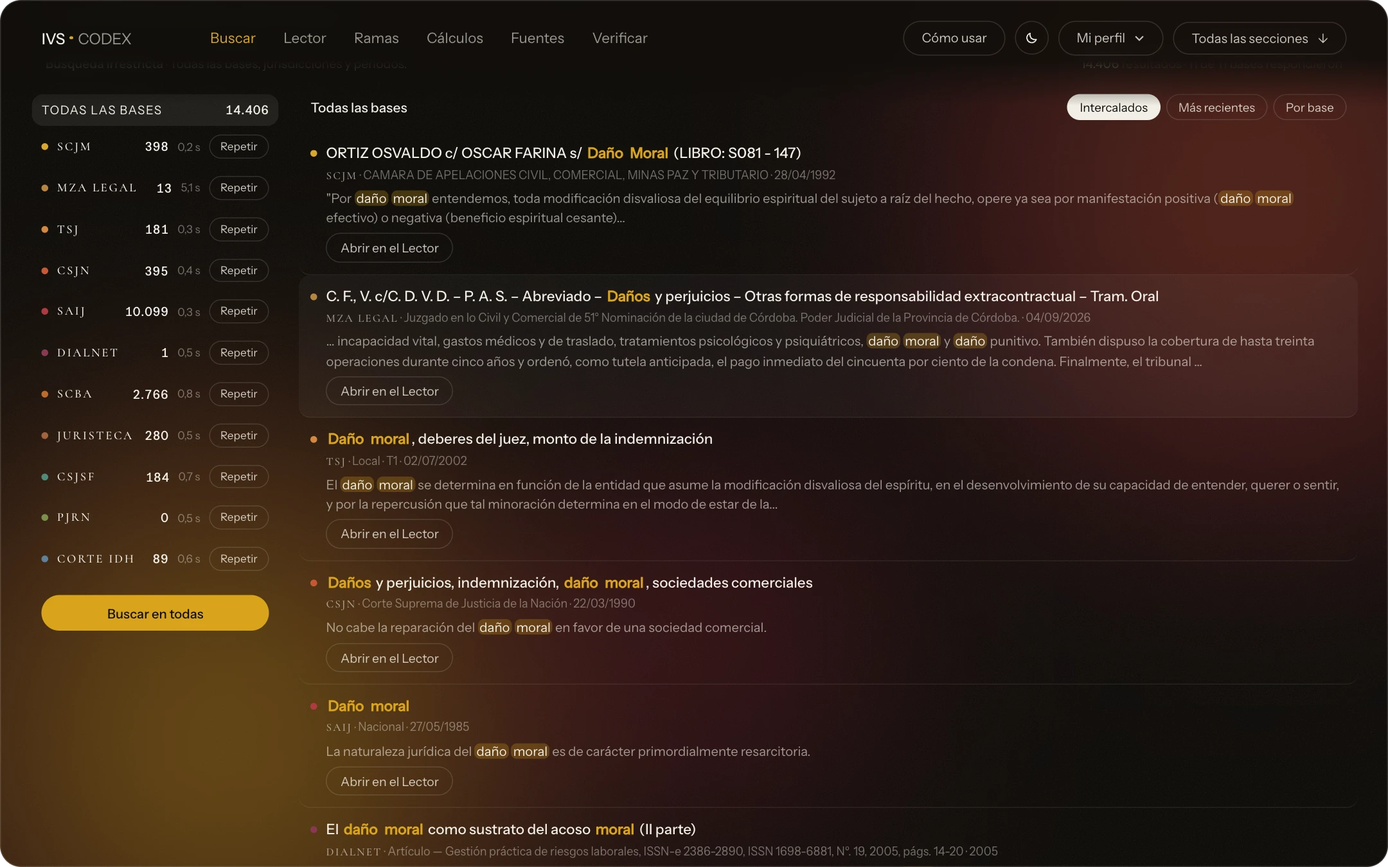
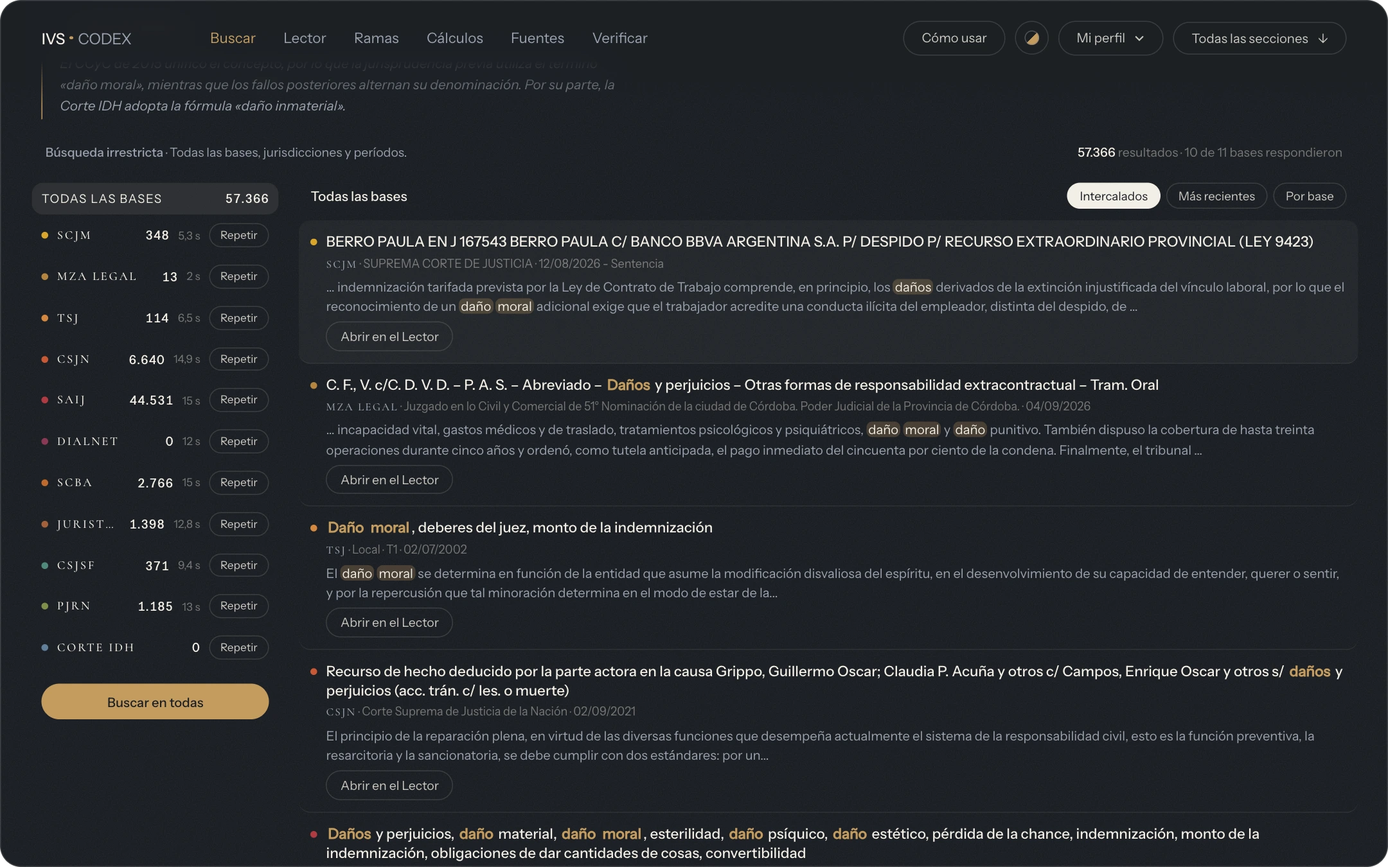
Paletas nuevas, sin degradé de fondo: Pizarra y oro (la de siempre), Azul pizarra y arena, Salvia y crema, Marino y ámbar, Negro (arena apagada de acento, para que no encandile) y Día (el blanco, igual que antes). Reemplazan a Noche, Descanso, Azul, Verde y Bordeaux en el interruptor de colores de l

diff --git a/frontend/index.html b/frontend/index.html
@@ -5,8 +5,8 @@
 <meta name="viewport" content="width=device-width, initial-scale=1, viewport-fit=cover">
 <title>IVS CODEX</title>
 <meta name="description" content="Buscador integrado de repositorios judiciales oficiales y doctrina. Arme la consulta y la plataforma lo lleva a las bases oficiales.">
-<meta name="theme-color" content="#100e0b">
-<script>try{var t=localStorage.getItem("ivs-tema");if(t==="claro"||t==="azul"||t==="verde"||t==="bordo"||t==="descanso")document.documentElement.setAttribute("data-tema",t)}catch(e){}</script>
+<meta name="theme-color" content="#1c1f24">
+<script>try{var t=localStorage.getItem("ivs-tema");if(t==="claro"||t==="arena"||t==="salvia"||t==="marino"||t==="negro")document.documentElement.setAttribute("data-tema",t)}catch(e){}</script>
 <!-- Política de contenido: la página solo puede cargar scripts propios, hablar con su
      propio servidor (API), con el backend publicado, con SAIJ y con la API de
      series de datos.gob.ar, y nunca cargar plugins ni cambiar su base de enlaces. -->
@@ -39,20 +39,20 @@
    cada plantilla.
  * ------------------------------------------------------------------ */
 :root{
-  --bg:#100e0b;
-  --fg:#f1eee6;
+  --bg:#1c1f24;
+  --fg:#f2eee5;
   --fg-82:rgba(var(--tx),.82);
-  --mute:rgba(var(--tx),.6);
+  --mute:#9aa2af;
   --mute-2:rgba(var(--tx),.42);
   --line:rgba(var(--tx),.14);
   --line-2:rgba(var(--tx),.08);
-  --gold:#d9a31b;
+  --gold:#c49c5f;
   --gold-55:rgba(var(--gold-rgb),.55);
-  --gold-rgb:217,163,27;
-  --tx:241,238,230;
-  --bg-rgb:16,14,11;
-  --ov-rgb:8,7,5;
-  --panel:#15120e;
+  --gold-rgb:196,156,95;
+  --tx:242,238,229;
+  --bg-rgb:28,31,36;
+  --ov-rgb:14,15,18;
+  --panel:#262b33;
   --verde:#8fbf9a;
   --rojo:#dba196;
 
@@ -68,7 +68,7 @@
   --oro:var(--gold);
   --acequia:var(--verde);
   /* crema al 58% sobre el negro, opaco: 5:1 de contraste en letra chica */
-  --humo:#94918a;
+  --humo:#9aa2af;
   --linea:var(--line);
   --linea2:var(--line-2);
   /* Un tono por buscador, la misma rampa cálida de antes: ahora solo
@@ -107,11 +107,11 @@ html[data-tema="claro"]{
   --tx:31,27,20;--bg-rgb:245,241,231;--ov-rgb:40,34,20;--panel:#fbf8f1;
   color-scheme:light
 }
-/* Otras paletas oscuras: el mismo diseño, solo cambian los colores. «Noche» (sin atributo) es la de siempre. */
-html[data-tema="azul"]{--bg:#161c27;--fg:#ece8dc;--gold:#d4a94a;--gold-rgb:212,169,74;--tx:236,232,220;--bg-rgb:22,28,39;--ov-rgb:11,14,20;--panel:#1b2230;--humo:#929290}
-html[data-tema="verde"]{--bg:#14211d;--fg:#eee9db;--gold:#cfae6a;--gold-rgb:207,174,106;--tx:238,233,219;--bg-rgb:20,33,29;--ov-rgb:10,17,15;--panel:#192a25;--humo:#92958b}
-html[data-tema="descanso"]{--bg:#2e231b;--fg:#e8d9bd;--gold:#d4a04a;--gold-rgb:212,160,74;--tx:232,217,189;--bg-rgb:46,35,27;--ov-rgb:23,18,14;--panel:#35291f;--humo:#9a8d79}
-html[data-tema="bordo"]{--bg:#34101b;--fg:#f3e8dd;--gold:#dcb26c;--gold-rgb:220,178,108;--tx:243,232,221;--bg-rgb:52,16,27;--ov-rgb:26,8,14;--panel:#3c1621;--humo:#a38d8c}
+/* Paletas oscuras: el mismo diseño, solo cambian los colores. «Pizarra y oro» (sin atributo) es la de siempre; el resto lleva data-tema. Sin degradé de fondo. */
+html[data-tema="arena"]{--bg:#1e252d;--fg:#e6e9eb;--mute:rgba(230,233,235,.62);--gold:#bd995c;--gold-rgb:189,153,92;--tx:230,233,235;--bg-rgb:30,37,45;--ov-rgb:15,18,22;--panel:#29313b;--humo:#8c9196}
+html[data-tema="salvia"]{--bg:#181d1b;--fg:#e2e0cc;--mute:rgba(226,224,204,.62);--gold:#a3b3a9;--gold-rgb:163,179,169;--tx:226,224,204;--bg-rgb:24,29,27;--ov-rgb:12,14,14;--panel:#212825;--humo:#87887c}
+html[data-tema="marino"]{--bg:#1a2030;--fg:#f1efea;--mute:rgba(241,239,234,.62);--gold:#f0b430;--gold-rgb:240,180,48;--tx:241,239,234;--bg-rgb:26,32,48;--ov-rgb:13,16,24;--panel:#232a3d;--humo:#909296}
+html[data-tema="negro"]{--bg:#0b0b0c;--fg:#e4e4e6;--mute:rgba(228,228,230,.62);--gold:#b8a986;--gold-rgb:184,169,134;--tx:228,228,230;--bg-rgb:11,11,12;--ov-rgb:6,6,6;--panel:#151517;--humo:#828284}
 html[data-tema="claro"] .grano{opacity:.05;mix-blend-mode:multiply}
 html[data-tema="claro"] .tour-card,html[data-tema="claro"] .compartir-menu{background:var(--panel)}
 html[data-tema="claro"] *::-webkit-scrollbar-thumb{background:rgba(31,27,20,.22)}
@@ -185,6 +185,7 @@ strong,b{font-weight:500}
 @keyframes luzA{to{transform:translate3d(5vw,-4vh,0) scale(1.1)}}
 @media (prefers-reduced-motion:reduce){.luces i{animation:none}}
 html[data-tema="claro"] .luces{opacity:.5}
+html:not([data-tema="claro"]) .luces{display:none}   /* las luces desenfocadas sólo quedan en el tema claro */
 
 /* la marca escrita, con el punto redondo del logo y no el "·" de la fuente */
 .marca{font-family:"Cinzel","Trajan Pro",var(--caps);font-weight:500;white-space:nowrap}
@@ -1600,14 +1601,14 @@ mark{border-radius:6px}
 <section class="entrada" id="entrada" aria-label="Portada de IVS CODEX">
   <!-- La portada es una página aparte (portada/index.html) dentro de un marco: así sus estilos no se mezclan con los de la aplicación.
        Sus botones le piden a esta página que abra la sección elegida (ver el mensaje «ivs: abrir» más abajo). -->
-  <iframe id="portada-marco" class="portada-marco" src="./portada/index.html?v=20261030b" title="Portada de IVS CODEX" loading="eager"></iframe>
+  <iframe id="portada-marco" class="portada-marco" src="./portada/index.html?v=20261030d" title="Portada de IVS CODEX" loading="eager"></iframe>
 </section>
 
 <header class="top">
   <div class="nav-wrap">
     <button type="button" class="marca-app" data-portada aria-label="IVS CODEX, volver a la portada"><span class="marca2"><b>IVS</b><i class="m-pt"></i><span>CODEX</span></span></button>
     <nav class="nav" id="nav" aria-label="Secciones principales"></nav>
-    <div class="nav-fin"><button type="button" class="lx-chip" data-act="abrir-lexia" aria-label="Preguntarle a Lexia"><i></i>Lexia</button><button type="button" class="btn sec btn-perfil" id="como-usar" data-tour>Cómo usar</button><span class="tema-seg" role="group" aria-label="Colores del sitio"><button type="button" class="tema-btn" aria-haspopup="menu" aria-expanded="false" aria-label="Colores del sitio" title="Colores"></button><span class="tema-pop" role="menu"><button type="button" class="tema-op" style="--i:0" role="menuitemradio" data-tema-op="oscuro" aria-label="Noche" aria-pressed="false"><svg viewBox="0 0 20 20" width="15" height="15" aria-hidden="true"><path d="M16.2 12.3A6.7 6.7 0 0 1 7.7 3.8a6.7 6.7 0 1 0 8.5 8.5Z" fill="none" stroke="currentColor" stroke-width="1.6" stroke-linejoin="round"/></svg><em>Noche</em></button><button type="button" class="tema-op" style="--i:1" role="menuitemradio" data-tema-op="claro" aria-label="Día" aria-pressed="false"><svg viewBox="0 0 20 20" width="15" height="15" aria-hidden="true"><circle cx="10" cy="10" r="3.6" fill="none" stroke="currentColor" stroke-width="1.6"/><path d="M10 2.2v2M10 15.8v2M2.2 10h2M15.8 10h2M4.5 4.5l1.4 1.4M14.1 14.1l1.4 1.4M4.5 15.5l1.4-1.4M14.1 5.9l1.4-1.4" stroke="currentColor" stroke-width="1.6" stroke-linecap="round"/></svg><em>Día</em></button><button type="button" class="tema-op" style="--i:2" role="menuitemradio" data-tema-op="descanso" aria-label="Descanso" aria-pressed="false"><i class="sw" style="--a:#2e231b;--b:#d4a04a"></i><em>Descanso</em></button><button type="button" class="tema-op" style="--i:3" role="menuitemradio" data-tema-op="azul" aria-label="Azul" aria-pressed="false"><i class="sw" style="--a:#161c27;--b:#d4a94a"></i><em>Azul</em></button><button type="button" class="tema-op" style="--i:4" role="menuitemradio" data-tema-op="verde" aria-label="Verde" aria-pressed="false"><i class="sw" style="--a:#14211d;--b:#cfae6a"></i><em>Verde</em></button><button type="button" class="tema-op" style="--i:5" role="menuitemradio" data-tema-op="bordo" aria-label="Bordeaux" aria-pressed="false"><i class="sw" style="--a:#34101b;--b:#dcb26c"></i><em>Bordeaux</em></button></span></span><span class="perfil-wrap"><button type="button" class="btn sec btn-perfil" id="mi-perfil" data-act="tog-perfil" aria-haspopup="menu" aria-expanded="false"><span>Mi perfil</span><svg class="fsb-flecha" viewBox="0 0 12 12" width="12" height="12" aria-hidden="true"><path d="M2.5 4.5 6 8l3.5-3.5" fill="none" stroke="currentColor" stroke-width="1.6" stroke-linecap="round" stroke-linejoin="round"/></svg></button><div class="perfil-menu" id="perfil-menu" role="menu" hidden></div></span><button type="button" class="btn sec btn-menu" id="abrir-menu" aria-expanded="false" aria-controls="menu"><span class="txt">Todas las secciones</span> <span class="fl" aria-hidden="true">↓</span></button></div>
+    <div class="nav-fin"><button type="button" class="lx-chip" data-act="abrir-lexia" aria-label="Preguntarle a Lexia"><i></i>Lexia</button><button type="button" class="btn sec btn-perfil" id="como-usar" data-tour>Cómo usar</button><span class="tema-seg" role="group" aria-label="Colores del sitio"><button type="button" class="tema-btn" aria-haspopup="menu" aria-expanded="false" aria-label="Colores del sitio" title="Colores"></button><span class="tema-pop" role="menu"><button type="button" class="tema-op" style="--i:0" role="menuitemradio" data-tema-op="oscuro" aria-label="Pizarra y oro" aria-pressed="false"><i class="sw" style="--a:#1c1f24;--b:#c49c5f"></i><em>Pizarra y oro</em></button><button type="button" class="tema-op" style="--i:1" role="menuitemradio" data-tema-op="arena" aria-label="Azul pizarra y arena" aria-pressed="false"><i class="sw" style="--a:#1e252d;--b:#bd995c"></i><em>Azul pizarra y arena</em></button><button type="button" class="tema-op" style="--i:2" role="menuitemradio" data-tema-op="salvia" aria-label="Salvia y crema" aria-pressed="false"><i class="sw" style="--a:#181d1b;--b:#a3b3a9"></i><em>Salvia y crema</em></button><button type="button" class="tema-op" style="--i:3" role="menuitemradio" data-tema-op="marino" aria-label="Marino y ámbar" aria-pressed="false"><i class="sw" style="--a:#1a2030;--b:#f0b430"></i><em>Marino y ámbar</em></button><button type="button" class="tema-op" style="--i:4" role="menuitemradio" data-tema-op="negro" aria-label="Negro" aria-pressed="false"><i class="sw" style="--a:#0b0b0c;--b:#b8a986"></i><em>Negro</em></button><button type="button" class="tema-op" style="--i:5" role="menuitemradio" data-tema-op="claro" aria-label="Día" aria-pressed="false"><svg viewBox="0 0 20 20" width="15" height="15" aria-hidden="true"><circle cx="10" cy="10" r="3.6" fill="none" stroke="currentColor" stroke-width="1.6"/><path d="M10 2.2v2M10 15.8v2M2.2 10h2M15.8 10h2M4.5 4.5l1.4 1.4M14.1 14.1l1.4 1.4M4.5 15.5l1.4-1.4M14.1 5.9l1.4-1.4" stroke="currentColor" stroke-width="1.6" stroke-linecap="round"/></svg><em>Día</em></button></span></span><span class="perfil-wrap"><button type="button" class="btn sec btn-perfil" id="mi-perfil" data-act="tog-perfil" aria-haspopup="menu" aria-expanded="false"><span>Mi perfil</span><svg class="fsb-flecha" viewBox="0 0 12 12" width="12" height="12" aria-hidden="true"><path d="M2.5 4.5 6 8l3.5-3.5" fill="none" stroke="currentColor" stroke-width="1.6" stroke-linecap="round" stroke-linejoin="round"/></svg></button><div class="perfil-menu" id="perfil-menu" role="menu" hidden></div></span><button type="button" class="btn sec btn-menu" id="abrir-menu" aria-expanded="false" aria-controls="menu"><span class="txt">Todas las secciones</span> <span class="fl" aria-hidden="true">↓</span></button></div>
   </div>
 </header>
 
@@ -10352,7 +10353,7 @@ window.IVS={
     document.addEventListener("click",function(e){ if(pop&&pop.classList.contains("abre")&&!pop.contains(e.target)) abre(false); });
     document.addEventListener("keydown",function(e){ if(e.key==="Escape"&&pop&&pop.classList.contains("abre")){ abre(false); btn.focus(); } });
   }
-  var TEMAS={claro:"#f5f1e7",azul:"#161c27",verde:"#14211d",bordo:"#34101b",descanso:"#2e231b"};
+  var TEMAS={claro:"#f5f1e7",arena:"#1e252d",salvia:"#181d1b",marino:"#1a2030",negro:"#0b0b0c"};
   function pon(t){
     if(!TEMAS[t]) t="oscuro";
     var r=document.documentElement;
@@ -10360,7 +10361,7 @@ window.IVS={
     ops.forEach(function(o){ o.setAttribute("aria-pressed",String(o.getAttribute("data-tema-op")===t)); });
     icono(t);
     try{ localStorage.setItem("ivs-tema",t); }catch(e){}
-    var m=document.querySelector('meta[name="theme-color"]'); if(m) m.setAttribute("content",TEMAS[t]||"#100e0b");
+    var m=document.querySelector('meta[name="theme-color"]'); if(m) m.setAttribute("content",TEMAS[t]||"#1c1f24");
   }
   pon(document.documentElement.getAttribute("data-tema"));
   ops.forEach(function(o){ o.addEventListener("click",function(){ var t=o.getAttribute("data-tema-op"); pon(t); portada(t); abre(false); }); });

diff --git a/frontend/opciones/paletas/datos.js b/frontend/opciones/paletas/datos.js
@@ -1,0 +1,58 @@
+/* Paletas completas de IVS CODEX, sin degradé: un negro teñido de base, un escalón más claro para los paneles,
+   el color del texto (que también tiñe los títulos) y un acento. Se aplican sobre la portada y la aplicación reales
+   sin tocar sus archivos: css() arma la hoja que se inyecta.
+   Las cálidas van hacia el vino, el rojo y el coral: sin marrón ni amarillo. */
+window.IVSPaletas = (function () {
+  var PAL = [
+    { id: 'actual', grupo: 'actual', nombre: 'Actual', bg: '#100e0b', panel: '#15120e', fg: '#f1eee6', acento: '#d9a31b', flat: false,
+      nota: 'Para comparar: negro cálido con degradé terracota, carmesí y oro.' },
+    { id: 'pizarra', grupo: 'tuyas', nombre: 'Pizarra y oro', bg: '#1c1f24', panel: '#262b33', fg: '#f2eee5', mute: '#9aa2af', acento: '#c49c5f', flat: true,
+      nota: 'De tu segunda imagen: carbón azulado, gris pizarra, crema y oro apagado. El oro queda sobre un fondo frío, sin marrón alrededor.' },
+    { id: 'arena', grupo: 'tuyas', nombre: 'Azul pizarra y arena', bg: '#1e252d', panel: '#29313b', fg: '#e6e9eb', acento: '#bd995c', flat: true,
+      nota: 'De tu primera imagen: azul pizarra oscuro, texto gris azulado claro y el oro arena como acento. Más azul y más suave que la anterior.' },
+    { id: 'marino-oro', grupo: 'tuyas', nombre: 'Marino y oro', bg: '#0c1117', panel: '#132230', fg: '#dadada', mute: '#b9b7b8', acento: '#bf8f1f', flat: true,
+      nota: 'De tu tercera imagen: negro marino, grises neutros y un oro más profundo. La más oscura y la más seria.' },
+    { id: 'ladrillo', grupo: 'tuyas', nombre: 'Ladrillo y rosado', bg: '#1f1311', panel: '#2b1b18', fg: '#f1e6e1', acento: '#d08b7a', flat: true,
+      nota: 'De la primera señalada: el rosado beige para el texto y el ladrillo aclarado para el acento, sobre un fondo de ladrillo muy oscuro. La más cálida de las seis.' },
+    { id: 'salvia', grupo: 'tuyas', nombre: 'Salvia y crema', bg: '#181d1b', panel: '#212825', fg: '#e2e0cc', acento: '#a3b3a9', flat: true,
+      nota: 'De la segunda señalada: crema verdosa para el texto y gris salvia como acento, sobre un negro verdoso. Calma y poco contraste entre el texto y el acento.' },
+    { id: 'marino-ambar', grupo: 'tuyas', nombre: 'Marino y ámbar', bg: '#1a2030', panel: '#232a3d', fg: '#f1efea', acento: '#f0b430', flat: true,
+      nota: 'De la tercera señalada: azul marino con ámbar vivo. El acento más fuerte de todos; con el marino se separa del fondo.' },
+    { id: 'tinta', grupo: 'fria', nombre: 'Tinta', bg: '#0b0e15', panel: '#121722', fg: '#e8ecf4', acento: '#9bb4f2', flat: true,
+      nota: 'Negro azulado, texto blanco frío y un azul pervinca apagado de acento (menos saturado, para que no encandile sobre el negro).' },
+    { id: 'abismo', grupo: 'fria', nombre: 'Abismo', bg: '#0a1112', panel: '#101a1b', fg: '#e6efee', acento: '#86cfc4', flat: true,
+      nota: 'Negro verdoso azulado con acento agua. Más calmo que el azul.' },
+    { id: 'grafito', grupo: 'fria', nombre: 'Grafito', bg: '#0d0e10', panel: '#141518', fg: '#eceef1', acento: '#c3c9d4', flat: true,
+      nota: 'Casi sin tinte, con acento plata. El más sobrio y el que menos compite con el contenido.' },
+    { id: 'vino', grupo: 'calida', nombre: 'Vino', bg: '#1a0a11', panel: '#251320', fg: '#f4eaec', acento: '#e9a2b0', flat: true,
+      nota: 'Negro de fondo de vino (rojo, no marrón), texto rosado muy claro y acento rosa empolvado.' },
+    { id: 'coral', grupo: 'calida', nombre: 'Coral', bg: '#0f0d0d', panel: '#171414', fg: '#f3eeec', acento: '#f2806c', flat: true,
+      nota: 'Carbón con un velo rojizo y acento coral: un solo toque cálido y vivo sobre un fondo casi neutro.' },
+    { id: 'durazno', grupo: 'calida', nombre: 'Burdeos y durazno', bg: '#150a0e', panel: '#1e1116', fg: '#f5ece9', acento: '#f1b3a0', flat: true,
+      nota: 'Negro bordó con acento durazno: más suave y luminoso que el coral.' }
+  ];
+
+  function rgbDe(h) { var n = parseInt(h.slice(1), 16); return [(n >> 16) & 255, (n >> 8) & 255, n & 255]; }
+  function lista(h) { return rgbDe(h).join(','); }
+  function mezcla(a, b, t) { return a.map(function (v, i) { return Math.round(v * t + b[i] * (1 - t)); }); }
+  function hex(c) { return '#' + c.map(function (v) { return ('0' + v.toString(16)).slice(-2); }).join(''); }
+  function lum(c) { var f = function (v) { v /= 255; return v <= 0.03928 ? v / 12.92 : Math.pow((v + 0.055) / 1.055, 2.4); }; return 0.2126 * f(c[0]) + 0.7152 * f(c[1]) + 0.0722 * f(c[2]); }
+  function contraste(h1, h2) { var a = lum(rgbDe(h1)), b = lum(rgbDe(h2)); if (a < b) { var t = a; a = b; b = t; } return (a + 0.05) / (b + 0.05); }
+
+  /* La hoja de estilo de una paleta. Pisa las mismas variables que usan las paletas del interruptor del sitio. */
+  function css(id) {
+    var p = PAL.filter(function (x) { return x.id === id; })[0] || PAL[0];
+    if (p.id === 'actual') return '';
+    var B = rgbDe(p.bg), F = rgbDe(p.fg);
+    var tx = F.join(','), humo = hex(mezcla(F, B, 0.55)), ov = B.map(function (v) { return Math.round(v * 0.5); }).join(',');
+    return ':root:root,html[data-tema]{' +
+      '--bg:' + p.bg + ';--bg-rgb:' + B.join(',') + ';--ov-rgb:' + ov + ';--panel:' + p.panel + ';' +
+      '--fg:' + p.fg + ';--tx:' + tx + ';--humo:' + humo + ';' +
+      '--mute:' + (p.mute || 'rgba(' + tx + ',.62)') + ';--dim:rgba(' + tx + ',.36);--line:rgba(' + tx + ',.15);' +
+      '--gold:' + p.acento + ';--gold-rgb:' + lista(p.acento) + '}' +
+      'html{background:' + p.bg + '!important}body{background:transparent!important}' +
+      '.luces{display:none!important}';
+  }
+
+  return { PAL: PAL, css: css, contraste: contraste };
+})();

diff --git a/frontend/opciones/paletas/index.html b/frontend/opciones/paletas/index.html
@@ -1,0 +1,98 @@
+<!doctype html>
+<html lang="es-AR">
+<head>
+<meta charset="utf-8">
+<meta name="viewport" content="width=device-width, initial-scale=1">
+<title>IVS CODEX · Paletas sin degradé</title>
+<link rel="stylesheet" href="https://fonts.googleapis.com/css2?family=Instrument+Sans:wght@400;500&display=swap">
+<style>
+:root{--bg:#0b0a09;--fg:#f1eee6;--mute:rgba(241,238,230,.62);--dim:rgba(241,238,230,.38);--line:rgba(241,238,230,.18);--gold:#d9a31b;--sans:"Instrument Sans",system-ui,sans-serif}
+*{box-sizing:border-box}
+html,body{height:100%}
+body{margin:0;display:flex;flex-direction:column;background:#0b0a09;color:var(--fg);font:400 15px/1.5 var(--sans);-webkit-font-smoothing:antialiased}
+.barra{flex:none;padding:18px clamp(14px,3vw,36px) 14px;display:grid;gap:12px}
+.fila{display:flex;flex-wrap:wrap;align-items:center;gap:8px}
+.t{margin:0 14px 0 0;font:500 15px/1 var(--sans);letter-spacing:-.01em}
+.t i{display:inline-block;width:.32em;height:.32em;margin:0 .35em .12em;border-radius:50%;background:var(--gold)}
+.p{display:inline-flex;align-items:center;gap:9px;padding:9px 16px 8px;border:1px solid var(--line);border-radius:999px;background:none;color:var(--mute);font:400 14px/1 var(--sans);cursor:pointer;transition:border-color .25s,color .25s,background .25s}
+.p:hover{border-color:var(--fg);color:var(--fg)}
+.p[aria-pressed="true"]{background:var(--fg);border-color:var(--fg);color:#14110a}
+.p i{width:9px;height:9px;border-radius:50%;background:var(--c)}
+.rot{font-size:12px;letter-spacing:.14em;text-transform:uppercase;color:var(--dim)}
+.sep{width:1px;height:22px;background:var(--line);margin:0 6px}
+.nota{margin:0;color:var(--mute);max-width:92ch}
+.nota b{color:var(--fg);font-weight:500}
+.fich{display:flex;flex-wrap:wrap;align-items:center;gap:6px 16px;margin:0;font-size:13px;color:var(--dim)}
+.fich span{display:inline-flex;align-items:center;gap:7px}
+.fich i{width:14px;height:14px;border-radius:50%;border:1px solid rgba(241,238,230,.28);background:var(--c)}
+.vista{flex:1;min-height:0;padding:0 clamp(14px,3vw,36px) clamp(14px,3vw,36px)}
+iframe{display:block;width:100%;height:100%;border:1px solid var(--line);border-radius:26px;background:#0b0a09}
+</style>
+</head>
+<body>
+<div class="barra">
+  <div class="fila" id="op"><span class="t">IVS<i></i>CODEX · Paletas</span></div>
+  <div class="fila" id="vs">
+    <button class="p" data-v="portada" aria-pressed="true">Portada</button>
+    <button class="p" data-v="app" aria-pressed="false">Aplicación</button>
+  </div>
+  <p class="nota" id="nota"></p>
+  <p class="fich" id="fich"></p>
+</div>
+<div class="vista"><iframe id="marco" title="Vista previa"></iframe></div>
+<script src="datos.js"></script>
+<script>
+(function () {
+  var D = window.IVSPaletas, marco = document.getElementById('marco');
+  var sel = 'actual', vista = 'portada';
+  var cont = document.getElementById('op');
+  var grupos = { actual: '', tuyas: 'De tus imágenes', fria: 'Frías', calida: 'Cálidas' }, ultimo = null;
+  D.PAL.forEach(function (o) {
+    if (o.grupo !== ultimo) {
+      var s = document.createElement('span'); s.className = 'sep'; cont.appendChild(s);
+      if (grupos[o.grupo]) { var r = document.createElement('span'); r.className = 'rot'; r.textContent = grupos[o.grupo]; cont.appendChild(r); }
+      ultimo = o.grupo;
+    }
+    var b = document.createElement('button');
+    b.className = 'p'; b.dataset.id = o.id; b.style.setProperty('--c', o.acento);
+    b.innerHTML = '<i></i>' + o.nombre;
+    b.addEventListener('click', function () { sel = o.id; aplicar(); });
+    cont.appendChild(b);
+  });
+  [].forEach.call(document.querySelectorAll('#vs > .p'), function (b) {
+    b.addEventListener('click', function () { vista = b.dataset.v; cargar(); });
+  });
+
+  function aplicar() {
+    [].forEach.call(document.querySelectorAll('#op .p'), function (b) { b.setAttribute('aria-pressed', String(b.dataset.id === sel)); });
+    [].forEach.call(document.querySelectorAll('#vs > .p'), function (b) { b.setAttribute('aria-pressed', String(b.dataset.v === vista)); });
+    var o = D.PAL.filter(function (x) { return x.id === sel; })[0];
+    document.getElementById('nota').innerHTML = '<b>' + o.nombre + '.</b> ' + o.nota;
+    var c = function (h1, h2) { return D.contraste(h1, h2).toFixed(1).replace('.', ',') + ' a 1'; };
+    document.getElementById('fich').innerHTML =
+      '<span style="--c:' + o.bg + '"><i></i>Fondo ' + o.bg + '</span>' +
+      '<span style="--c:' + o.panel + '"><i></i>Panel ' + o.panel + '</span>' +
+      '<span style="--c:' + o.fg + '"><i></i>Texto y títulos ' + o.fg + ' · contraste ' + c(o.fg, o.bg) + '</span>' +
+      '<span style="--c:' + o.acento + '"><i></i>Acento ' + o.acento + ' · contraste ' + c(o.acento, o.bg) + '</span>';
+    try {
+      var doc = marco.contentDocument; if (!doc || !doc.head) return;
+      var st = doc.getElementById('paleta-prueba');
+      if (!st) { st = doc.createElement('style'); st.id = 'paleta-prueba'; doc.head.appendChild(st); }
+      st.textContent = D.css(sel);
+    } catch (e) {}
+  }
+  function cargar() {
+    marco.onload = function () {
+      aplicar();
+      if (vista === 'app') {
+        setTimeout(function () { try { marco.contentWindow.postMessage({ ivs: 'abrir', tab: 'calculos' }, location.origin); } catch (e) {} }, 900);
+      }
+    };
+    marco.src = vista === 'app' ? '../../index.html' : '../../portada/index.html';
+    aplicar();
+  }
+  cargar();
+})();
+</script>
+</body>
+</html>

diff --git a/frontend/portada/shared6.js b/frontend/portada/shared6.js
@@ -2,7 +2,7 @@
 (function(){
   var S=IVS4;
   var BASES=[["SCJM","--c-mza"],["MZA LEGAL","--c-mzl"],["TSJ","--c-caba"],["SCBA","--c-scba"],["CSJN","--c-csjn"],["SAIJ","--c-saij"],["DIALNET","--c-dial"],["CORTE IDH","--c-idh"]];
-  var CAB='<header class="cab"><span class="lock"><span class="marca2"><b>IVS</b><i class="m-pt"></i><span>CODEX</span></span></span><div class="acts"><span class="tema-seg" role="group" aria-label="Colores del sitio"><button type="button" class="tema-btn" aria-haspopup="menu" aria-expanded="false" aria-label="Colores del sitio" title="Colores"></button><span class="tema-pop" role="menu"><button type="button" class="tema-op" style="--i:0" role="menuitemradio" data-tema-op="oscuro" aria-label="Noche" aria-pressed="false"><svg viewBox="0 0 20 20" width="15" height="15" aria-hidden="true"><path d="M16.2 12.3A6.7 6.7 0 0 1 7.7 3.8a6.7 6.7 0 1 0 8.5 8.5Z" fill="none" stroke="currentColor" stroke-width="1.6" stroke-linejoin="round"/></svg><em>Noche</em></button><button type="button" class="tema-op" style="--i:1" role="menuitemradio" data-tema-op="claro" aria-label="Día" aria-pressed="false"><svg viewBox="0 0 20 20" width="15" height="15" aria-hidden="true"><circle cx="10" cy="10" r="3.6" fill="none" stroke="currentColor" stroke-width="1.6"/><path d="M10 2.2v2M10 15.8v2M2.2 10h2M15.8 10h2M4.5 4.5l1.4 1.4M14.1 14.1l1.4 1.4M4.5 15.5l1.4-1.4M14.1 5.9l1.4-1.4" stroke="currentColor" stroke-width="1.6" stroke-linecap="round"/></svg><em>Día</em></button><button type="button" class="tema-op" style="--i:2" role="menuitemradio" data-tema-op="descanso" aria-label="Descanso" aria-pressed="false"><i class="sw" style="--a:#2e231b;--b:#d4a04a"></i><em>Descanso</em></button><button type="button" class="tema-op" style="--i:3" role="menuitemradio" data-tema-op="azul" aria-label="Azul" aria-pressed="false"><i class="sw" style="--a:#161c27;--b:#d4a94a"></i><em>Azul</em></button><button type="button" class="tema-op" style="--i:4" role="menuitemradio" data-tema-op="verde" aria-label="Verde" aria-pressed="false"><i class="sw" style="--a:#14211d;--b:#cfae6a"></i><em>Verde</em></button><button type="button" class="tema-op" style="--i:5" role="menuitemradio" data-tema-op="bordo" aria-label="Bordeaux" aria-pressed="false"><i class="sw" style="--a:#34101b;--b:#dcb26c"></i><em>Bordeaux</em></button></span></span><a class="btn sec" href="#" data-tab="fuentes">Ver el catálogo de fuentes</a><a class="btn" href="#" data-tab="buscar">Iniciar la consulta</a></div></header>';
+  var CAB='<header class="cab"><span class="lock"><span class="marca2"><b>IVS</b><i class="m-pt"></i><span>CODEX</span></span></span><div class="acts"><span class="tema-seg" role="group" aria-label="Colores del sitio"><button type="button" class="tema-btn" aria-haspopup="menu" aria-expanded="false" aria-label="Colores del sitio" title="Colores"></button><span class="tema-pop" role="menu"><button type="button" class="tema-op" style="--i:0" role="menuitemradio" data-tema-op="oscuro" aria-label="Pizarra y oro" aria-pressed="false"><i class="sw" style="--a:#1c1f24;--b:#c49c5f"></i><em>Pizarra y oro</em></button><button type="button" class="tema-op" style="--i:1" role="menuitemradio" data-tema-op="arena" aria-label="Azul pizarra y arena" aria-pressed="false"><i class="sw" style="--a:#1e252d;--b:#bd995c"></i><em>Azul pizarra y arena</em></button><button type="button" class="tema-op" style="--i:2" role="menuitemradio" data-tema-op="salvia" aria-label="Salvia y crema" aria-pressed="false"><i class="sw" style="--a:#181d1b;--b:#a3b3a9"></i><em>Salvia y crema</em></button><button type="button" class="tema-op" style="--i:3" role="menuitemradio" data-tema-op="marino" aria-label="Marino y ámbar" aria-pressed="false"><i class="sw" style="--a:#1a2030;--b:#f0b430"></i><em>Marino y ámbar</em></button><button type="button" class="tema-op" style="--i:4" role="menuitemradio" data-tema-op="negro" aria-label="Negro" aria-pressed="false"><i class="sw" style="--a:#0b0b0c;--b:#b8a986"></i><em>Negro</em></button><button type="button" class="tema-op" style="--i:5" role="menuitemradio" data-tema-op="claro" aria-label="Día" aria-pressed="false"><svg viewBox="0 0 20 20" width="15" height="15" aria-hidden="true"><circle cx="10" cy="10" r="3.6" fill="none" stroke="currentColor" stroke-width="1.6"/><path d="M10 2.2v2M10 15.8v2M2.2 10h2M15.8 10h2M4.5 4.5l1.4 1.4M14.1 14.1l1.4 1.4M4.5 15.5l1.4-1.4M14.1 5.9l1.4-1.4" stroke="currentColor" stroke-width="1.6" stroke-linecap="round"/></svg><em>Día</em></button></span></span><a class="btn sec" href="#" data-tab="fuentes">Ver el catálogo de fuentes</a><a class="btn" href="#" data-tab="buscar">Iniciar la consulta</a></div></header>';
   window.IVS6={
     BASES:BASES,
     /* monta la cabecera, el héroe del prisma y devuelve el contenedor <main> donde van las secciones */
@@ -38,7 +38,7 @@
         document.addEventListener("click",function(e){ if(pop&&pop.classList.contains("abre")&&!pop.contains(e.target)) abre(false); });
         document.addEventListener("keydown",function(e){ if(e.key==="Escape"&&pop&&pop.classList.contains("abre")){ abre(false); btn.focus(); } });
       }
-      var TEMAS={claro:1,azul:1,verde:1,bordo:1,descanso:1};
+      var TEMAS={claro:1,arena:1,salvia:1,marino:1,negro:1};
       function pon(t){
         if(!TEMAS[t]) t="oscuro";
         var r=document.documentElement;

diff --git a/frontend/portada/index.html b/frontend/portada/index.html
@@ -1,10 +1,10 @@
-<!doctype html><html lang="es-AR"><head><meta charset="utf-8"><meta name="viewport" content="width=device-width,initial-scale=1"><meta name="theme-color" content="#100e0b">
+<!doctype html><html lang="es-AR"><head><meta charset="utf-8"><meta name="viewport" content="width=device-width,initial-scale=1"><meta name="theme-color" content="#1c1f24">
 <meta http-equiv="Content-Security-Policy" content="default-src 'self'; script-src 'self' 'unsafe-inline'; style-src 'self' 'unsafe-inline' https://fonts.googleapis.com; font-src 'self' https://fonts.gstatic.com; img-src 'self' data: blob:; connect-src 'self'; frame-src 'none'; media-src 'none'; object-src 'none'; base-uri 'none'; form-action 'none'">
 <meta name="referrer" content="no-referrer">
-<script>try{var t=localStorage.getItem("ivs-tema");if(t==="claro"||t==="azul"||t==="verde"||t==="bordo"||t==="descanso")document.documentElement.setAttribute("data-tema",t)}catch(e){}</script>
+<script>try{var t=localStorage.getItem("ivs-tema");if(t==="claro"||t==="arena"||t==="salvia"||t==="marino"||t==="negro")document.documentElement.setAttribute("data-tema",t)}catch(e){}</script>
 <link rel="preconnect" href="https://fonts.googleapis.com"><link rel="preconnect" href="https://fonts.gstatic.com" crossorigin>
 <link rel="stylesheet" href="https://fonts.googleapis.com/css2?family=Cinzel:wght@500&family=Cormorant+SC:wght@300;400;500&family=Instrument+Sans:wght@400;500&display=swap">
-<link rel="stylesheet" href="p.css?v=20261030b"><link rel="stylesheet" href="shared.css?v=20261030b"><link rel="stylesheet" href="shared6.css?v=20261030b"><link rel="stylesheet" href="claro.css?v=20261029k">
+<link rel="stylesheet" href="p.css?v=20261030d"><link rel="stylesheet" href="shared.css?v=20261030d"><link rel="stylesheet" href="shared6.css?v=20261030d"><link rel="stylesheet" href="claro.css?v=20261030d">
 <title>IVS CODEX</title>
 <style>
 /* LA MESA DE TRABAJO — el prisma, y debajo la plataforma funcionando: siete instrumentos que se pueden usar ahí mismo.
@@ -62,7 +62,7 @@
 .pie9 .bs span{display:inline-flex;align-items:center;gap:8px;padding:8px 15px;border:1px solid var(--line);border-radius:999px;font:500 11.5px/1 var(--caps);letter-spacing:.16em}.pie9 .bs i{width:7px;height:7px;border-radius:50%;background:var(--c)}
 .pie9 .adv{max-width:24ch;margin:0 0 22px;font:400 clamp(28px,4.2vw,58px)/1.02 var(--titulo);letter-spacing:-.04em;text-wrap:balance}.pie9 .adv em{font-style:normal;color:var(--gold)}
 .pie9 .aviso{max-width:70ch;margin:0 0 28px;color:var(--mute);font-size:14px}
-.legal-velo{position:fixed;inset:0;z-index:200;display:flex;align-items:flex-start;justify-content:center;padding:clamp(16px,5vh,60px) 16px;background:rgba(8,7,5,.82);-webkit-backdrop-filter:blur(8px);backdrop-filter:blur(8px);overflow:auto}
+.legal-velo{position:fixed;inset:0;z-index:200;display:flex;align-items:flex-start;justify-content:center;padding:clamp(16px,5vh,60px) 16px;background:rgba(var(--ov-rgb),.82);-webkit-backdrop-filter:blur(8px);backdrop-filter:blur(8px);overflow:auto}
 .legal-velo[hidden]{display:none}
 .legal-caja{position:relative;width:min(760px,100%);padding:clamp(24px,4vw,44px);border:1px solid var(--line);border-radius:28px;background:var(--bg);color:var(--mute);font-size:15px;line-height:1.65;outline:none}
 .legal-caja .h2{margin:0 0 18px;color:var(--fg)}
@@ -97,7 +97,7 @@ html::-webkit-scrollbar{display:none}
   .panel input[type=date]{-webkit-appearance:none;appearance:none;display:block;min-height:46px;text-align:left}
 }
 </style></head><body>
-<script>addEventListener("scroll",function(){if(scrollX>0&&innerWidth<=900)scrollTo(0,scrollY);},{passive:true});</script><script src="shared.js?v=20261029r"></script><script src="shared6.js?v=20261029t"></script><script src="calculos.js?v=20261024a"></script>
+<script>addEventListener("scroll",function(){if(scrollX>0&&innerWidth<=900)scrollTo(0,scrollY);},{passive:true});</script><script src="shared.js?v=20261029r"></script><script src="shared6.js?v=20261030d"></script><script src="calculos.js?v=20261024a"></script>
 <script>
 var m=IVS6.montar(),O=IVS4.OFERTAS;
 function esc(s){return String(s==null?"":s).replace(/[&<>"']/g,function(c){return {"&":"&amp;","<":"&lt;",">":"&gt;",'"':"&quot;","'":"&#39;"}[c];});}

diff --git a/frontend/portada/claro.css b/frontend/portada/claro.css
@@ -3,7 +3,7 @@
    que comparte la elección guardada en localStorage («ivs-tema») con la aplicación. */
 html[data-tema="claro"]{
   --bg:#f5f1e7;--fg:#1f1b14;--mute:rgba(31,27,20,.64);--dim:rgba(31,27,20,.46);--line:rgba(31,27,20,.18);
-  --gold:#946a06;
+  --gold:#946a06;--bg-rgb:245,241,231;--ov-rgb:40,34,20;
   color-scheme:light
 }
 html[data-tema="claro"] ::selection{background:var(--gold);color:var(--bg)}
@@ -59,8 +59,8 @@ html[data-tema="claro"] .legal-velo{background:rgba(40,34,20,.45)}
 .tema-op:hover{background:rgba(128,128,128,.16)}
 .tema-op[aria-pressed="true"]{background:var(--fg);color:var(--bg)}
 
-/* Otras paletas oscuras (mismos colores que en ../index.html): solo cambian las variables de color. */
-html[data-tema="azul"]{--bg:#161c27;--fg:#ece8dc;--mute:rgba(236,232,220,.62);--dim:rgba(236,232,220,.36);--line:rgba(236,232,220,.15);--gold:#d4a94a}
-html[data-tema="verde"]{--bg:#14211d;--fg:#eee9db;--mute:rgba(238,233,219,.62);--dim:rgba(238,233,219,.36);--line:rgba(238,233,219,.15);--gold:#cfae6a}
-html[data-tema="bordo"]{--bg:#34101b;--fg:#f3e8dd;--mute:rgba(243,232,221,.62);--dim:rgba(243,232,221,.36);--line:rgba(243,232,221,.15);--gold:#dcb26c}
-html[data-tema="descanso"]{--bg:#2e231b;--fg:#e8d9bd;--mute:rgba(232,217,189,.62);--dim:rgba(232,217,189,.36);--line:rgba(232,217,189,.15);--gold:#d4a04a}
+/* Paletas oscuras (mismos colores que en ../index.html): solo cambian las variables de color. */
+html[data-tema="arena"]{--bg:#1e252d;--fg:#e6e9eb;--mute:rgba(230,233,235,.62);--dim:rgba(230,233,235,.36);--line:rgba(230,233,235,.15);--gold:#bd995c;--bg-rgb:30,37,45;--ov-rgb:15,18,22}
+html[data-tema="salvia"]{--bg:#181d1b;--fg:#e2e0cc;--mute:rgba(226,224,204,.62);--dim:rgba(226,224,204,.36);--line:rgba(226,224,204,.15);--gold:#a3b3a9;--bg-rgb:24,29,27;--ov-rgb:12,14,14}
+html[data-tema="marino"]{--bg:#1a2030;--fg:#f1efea;--mute:rgba(241,239,234,.62);--dim:rgba(241,239,234,.36);--line:rgba(241,239,234,.15);--gold:#f0b430;--bg-rgb:26,32,48;--ov-rgb:13,16,24}
+html[data-tema="negro"]{--bg:#0b0b0c;--fg:#e4e4e6;--mute:rgba(228,228,230,.62);--dim:rgba(228,228,230,.36);--line:rgba(228,228,230,.15);--gold:#b8a986;--bg-rgb:11,11,12;--ov-rgb:6,6,6}

diff --git a/frontend/portada/shared6.css b/frontend/portada/shared6.css
@@ -42,7 +42,7 @@
 .cierre .adv em{font-style:normal;color:var(--gold)}
 .cierre .sub{max-width:62ch;margin:0 0 30px;color:var(--mute);font-size:14.5px}
 .cierre .marcaf{margin-top:clamp(40px,7vw,90px);font-size:clamp(46px,12vw,200px);color:rgba(241,238,230,.8);line-height:.86}
-.idx6{position:fixed;right:14px;bottom:14px;z-index:80;padding:9px 15px 8px;border:1px solid var(--line);border-radius:999px;background:rgba(16,14,11,.78);-webkit-backdrop-filter:blur(8px);backdrop-filter:blur(8px);font-size:12.5px;color:var(--mute)}
+.idx6{position:fixed;right:14px;bottom:14px;z-index:80;padding:9px 15px 8px;border:1px solid var(--line);border-radius:999px;background:rgba(var(--bg-rgb),.78);-webkit-backdrop-filter:blur(8px);backdrop-filter:blur(8px);font-size:12.5px;color:var(--mute)}
 .idx6:hover{color:var(--gold);border-color:var(--gold)}
 
 /* luces de fondo: tres manchas cálidas (dorado, naranja y bordeaux), desenfocadas, que derivan muy despacio */
@@ -54,5 +54,6 @@
 @keyframes luzA{to{transform:translate3d(5vw,-4vh,0) scale(1.1)}}
 @media (prefers-reduced-motion:reduce){.luces i{animation:none}}
 html[data-tema="claro"] .luces{opacity:.5}
+html:not([data-tema="claro"]) .luces{display:none}
 
 body{background:transparent}   /* el color lo pone <html>: así se ven las luces de fondo */

diff --git a/frontend/portada/p.css b/frontend/portada/p.css
@@ -1,8 +1,8 @@
 /* Base común de las cinco portadas: la misma paleta, el mismo grano y los mismos botones de cápsula.
    Lo que cambia entre ellas es la composición y el movimiento. */
 :root{
-  --bg:#100e0b;--fg:#f1eee6;--mute:rgba(241,238,230,.62);--dim:rgba(241,238,230,.36);--line:rgba(241,238,230,.15);
-  --gold:#d9a31b;--caps:"Cormorant SC",Georgia,serif;--sans:"Instrument Sans",system-ui,sans-serif;--titulo:"Punto redondo","Instrument Sans",system-ui,sans-serif;
+  --bg:#1c1f24;--fg:#f2eee5;--mute:#9aa2af;--dim:rgba(242,238,229,.36);--line:rgba(242,238,229,.15);--bg-rgb:28,31,36;--ov-rgb:14,15,18;
+  --gold:#c49c5f;--caps:"Cormorant SC",Georgia,serif;--sans:"Instrument Sans",system-ui,sans-serif;--titulo:"Punto redondo","Instrument Sans",system-ui,sans-serif;
   --ease:cubic-bezier(.16,.84,.24,1);--pad:clamp(18px,3.2vw,48px);
   --c-mza:#d9a62a;--c-mzl:#b58640;--c-caba:#d5873f;--c-csjn:#c95836;--c-saij:#b03b42;--c-dial:#8a3853;--c-idh:#5f7f9a;--c-scba:#c06a2c
 }

diff --git a/frontend/portada/shared.css b/frontend/portada/shared.css
@@ -1,5 +1,5 @@
 /* Piezas comunes de la cuarta tanda: dibujos, libro y rótulos. La paleta, el grano y las cápsulas vienen de ../p.css. */
-.cab{position:fixed;left:0;right:0;top:0;z-index:60;background:linear-gradient(var(--bg) 20%,rgba(16,14,11,0))}
+.cab{position:fixed;left:0;right:0;top:0;z-index:60;background:linear-gradient(var(--bg) 20%,rgba(var(--bg-rgb),0))}
 .t{margin:0;font:400 clamp(26px,3.3vw,52px)/1.05 var(--titulo);letter-spacing:-.035em;text-wrap:balance}
 .t em{font-style:normal;color:var(--gold)}
 .acc{display:flex;gap:10px;flex-wrap:wrap}
